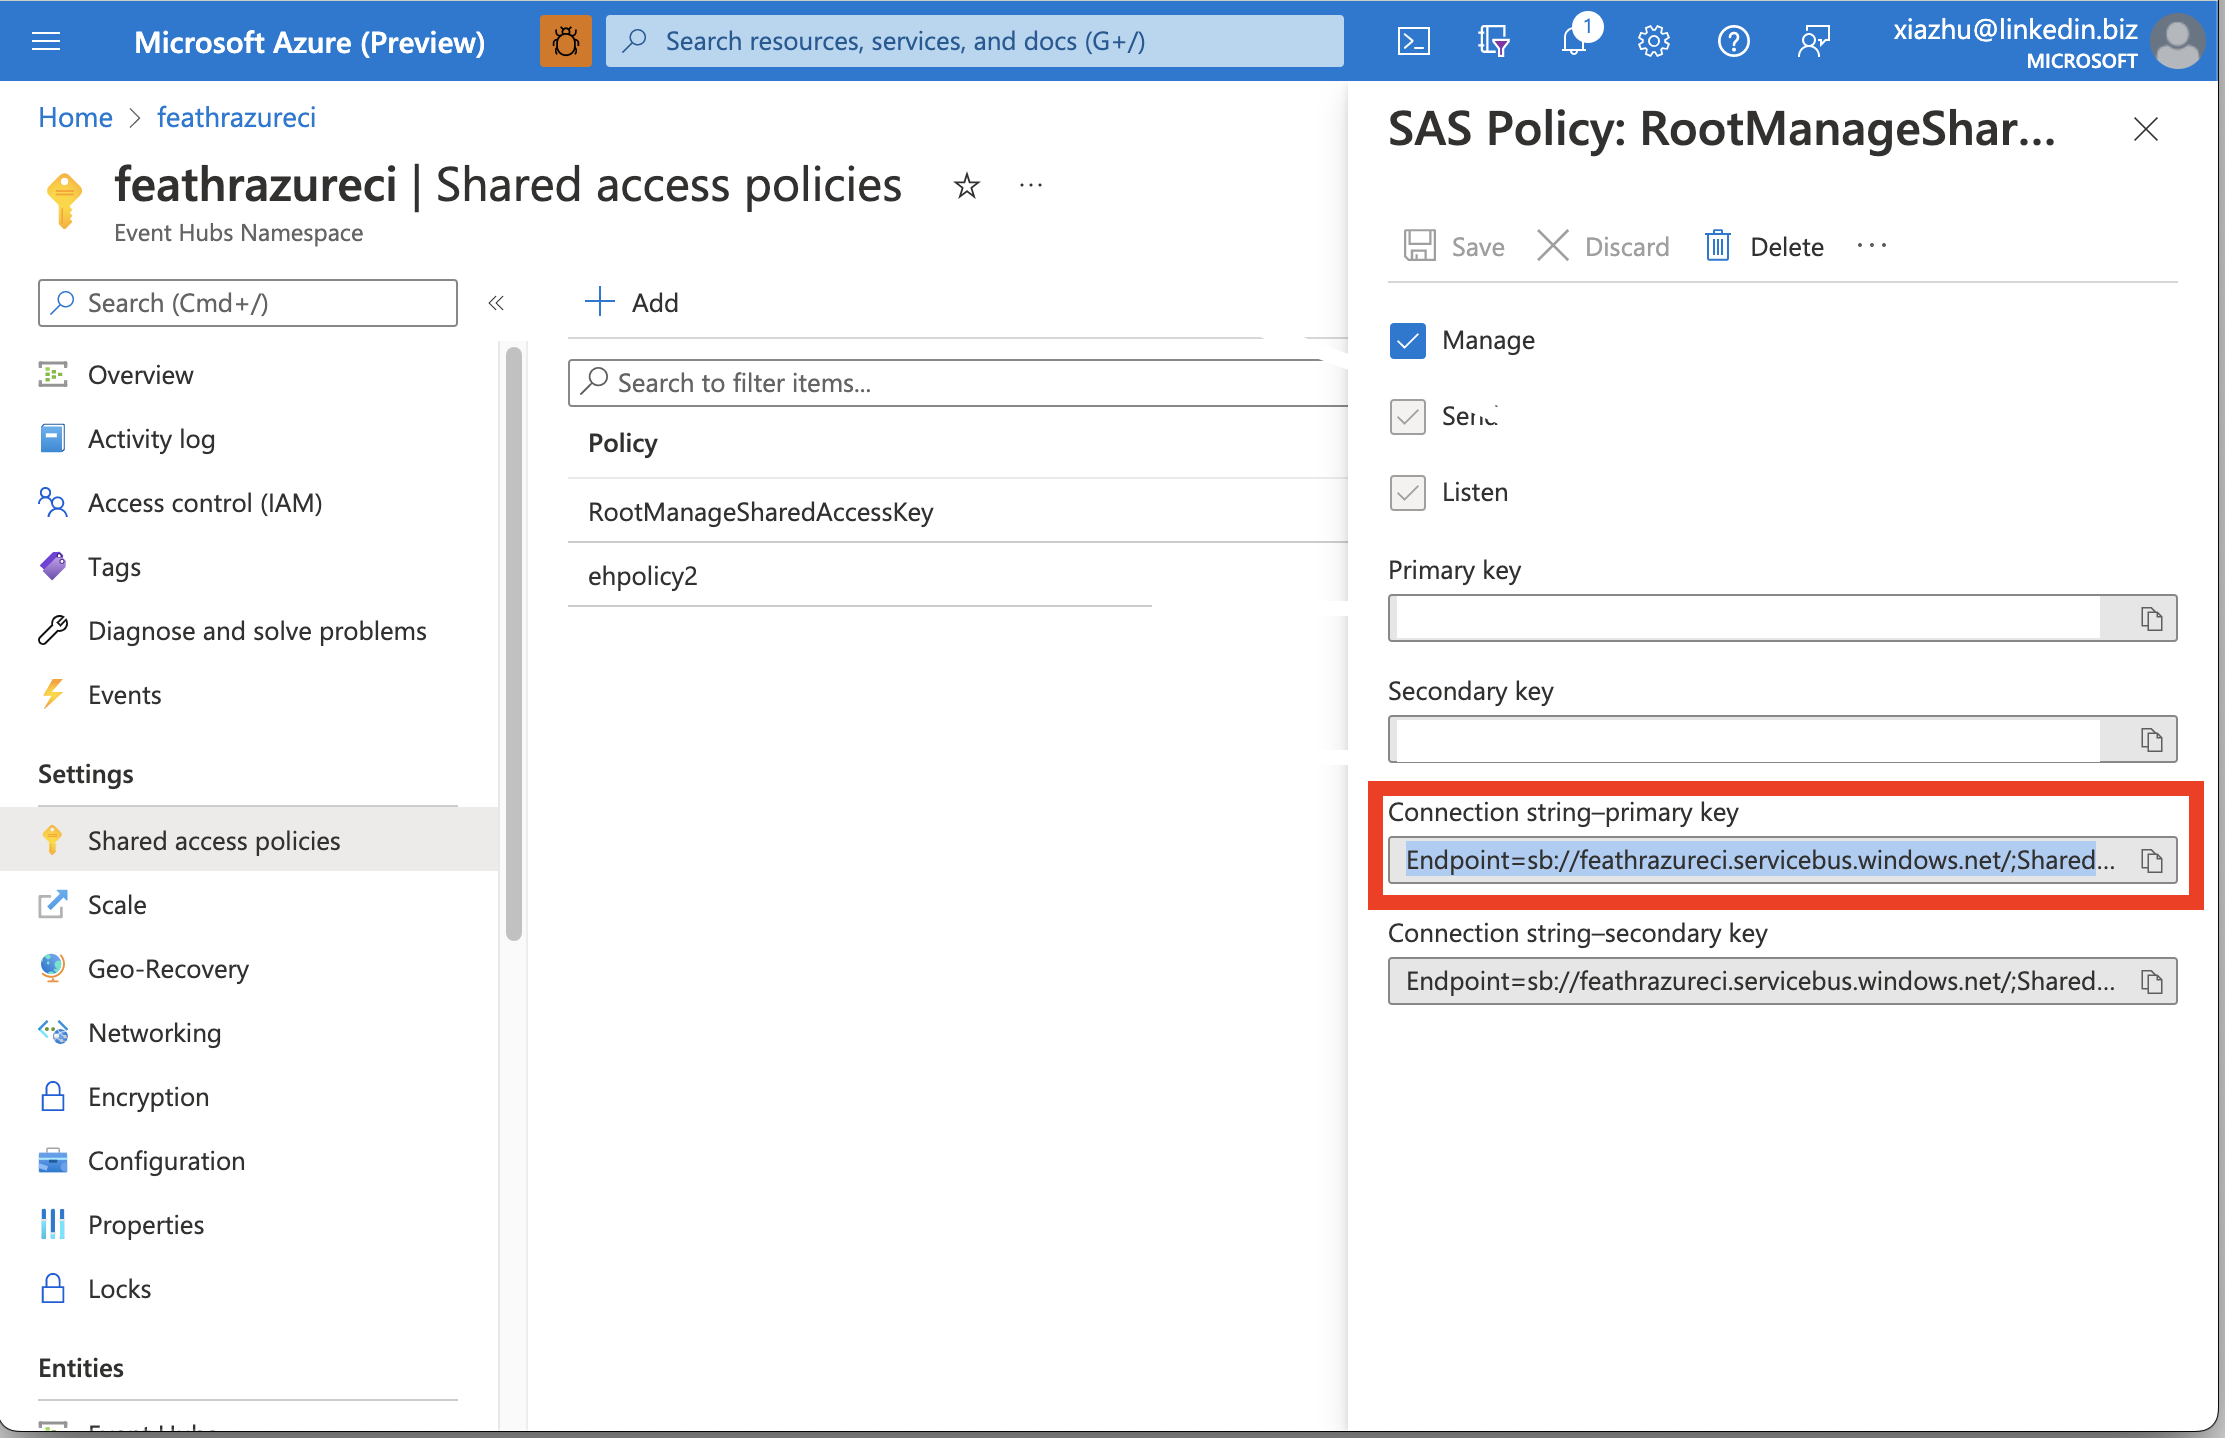
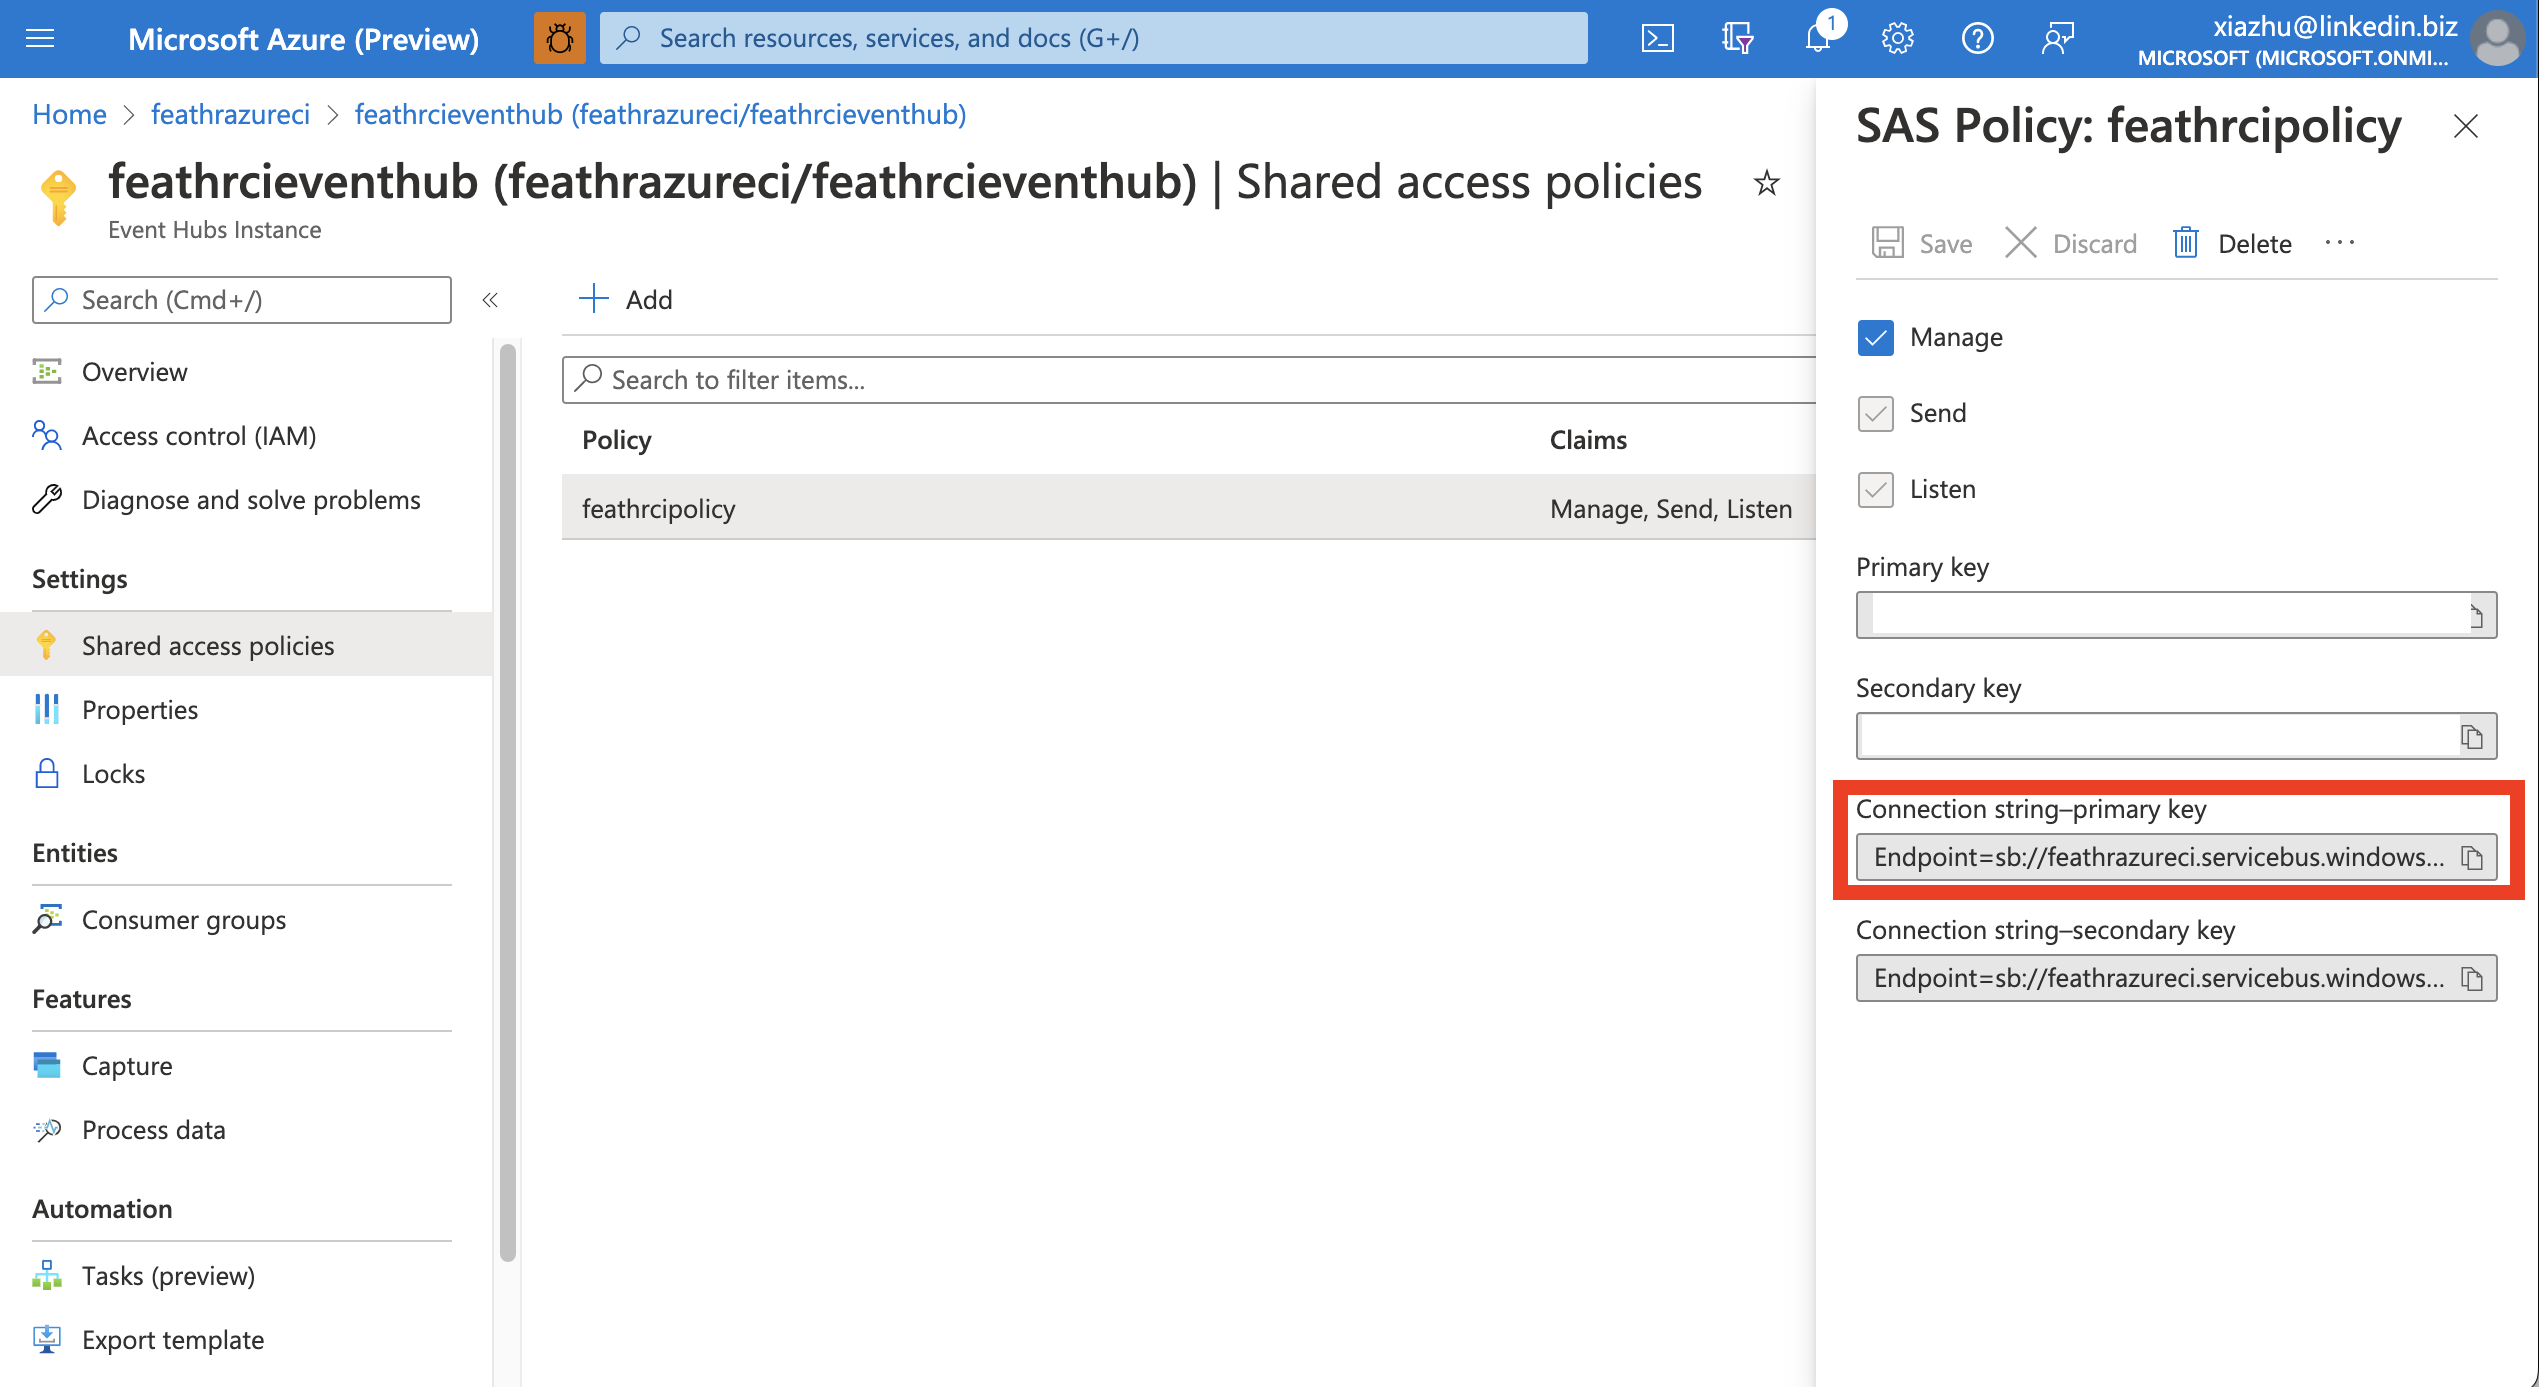
Add more docs for eventhub/kafka

diff --git a/feathr_project/test/test_fixture.py b/feathr_project/test/test_fixture.py
@@ -152,7 +152,7 @@ def kafka_test_setup(config_path: str):
                                                         key=driver_id),
                                                 Feature(name="f_modified_streaming_count2",
                                                         feature_type=INT32,
-                                                        transform="trips_today + 2",
+                                                        transform="trips_today + randn() * cos(trips_today)", # make sure the supported SQL functions are tested
                                                         key=driver_id)]
                                       )
     client.build_features(anchor_list=[kafkaAnchor])

diff --git a/docs/how-to-guides/streaming-source-ingestion.md b/docs/how-to-guides/streaming-source-ingestion.md
@@ -3,9 +3,14 @@ layout: default
 title: Streaming Source Ingestion
 parent: How-to Guides
 ---
+
 # Streaming feature ingestion
 
-1. Define Kafka streaming input source
+Feathr supports defining features from a stream source (for example Kafka) and sink the features into an online store (such as Redis). This is very useful if you need up-to-date features for online store, for example when user clicks on the website, that web log event is usually sent to Kafka, and data scientists might need some features immediately, such as the browser used in this particular event. The steps are as below:
+
+## Define Kafka streaming input source
+
+Currently only Avro format is supported, so users need to specify `AvroJsonSchema` as below:
 
 ```python
 # Define input data schema
@@ -30,7 +35,13 @@ stream_source = KafKaSource(name="kafkaStreamingSource",
                             )
 ```
 
-2. Define feature definition with the Kafka source
+## Define feature definition with the Kafka source
+
+You can then define features. They are mostly the same with the [regular feature definition](../concepts/feature-definition.md).
+
+Note that for the `transform` part, only row level transformation is allowed in streaming anchor at the moment, i.e. the transformations listed in [Spark SQL Built-in Functions](https://spark.apache.org/docs/latest/api/sql/) are supported. Other transformations support are in the roadmap. 
+
+For example, you can specify to do a row-level transformation like `trips_today + randn() * cos(trips_today)` for your input data.
 
 ```python
 driver_id = TypedKey(key_column="driver_id",
@@ -46,15 +57,15 @@ kafkaAnchor = FeatureAnchor(name="kafkaAnchor",
                                               key=driver_id),
                                       Feature(name="f_modified_streaming_count2",
                                               feature_type=INT32,
-                                              transform="trips_today + 2",
+                                              transform="trips_today + randn() * cos(trips_today)",
                                               key=driver_id)]
                             )
 
 ```
-Note that only Feathr ExpressionTransformation is allowed in streaming anchor at the moment.
-Other transformations support are in the roadmap.
 
-3. Start streaming job
+## Start streaming job
+
+You can then start a streaming job and stream all the features into online store, such as Redis:
 
 ```python
 redisSink = RedisSink(table_name="kafkaSampleDemoFeature", streaming=True, streamingTimeoutMs=10000)
@@ -64,15 +75,16 @@ settings = MaterializationSettings(name="kafkaSampleDemo",
                                    )
 client.materialize_features(settings) # Will streaming for 10 seconds since streamingTimeoutMs is 10000
 ```
-4. Fetch streaming feature values
+
+## Fetch streaming feature values
+
+And finally get the relevant features from online store:
 
 ```python
-
-    res = client.get_online_features('kafkaSampleDemoFeature', '1',
-                                     ['f_modified_streaming_count'])
-    # Get features for multiple feature keys
-    res = client.multi_get_online_features('kafkaSampleDemoFeature',
-                                    ['1', '2'],
-                                    ['f_modified_streaming_count'])
+res = client.get_online_features('kafkaSampleDemoFeature', '1',['f_modified_streaming_count'])
+# Get features for multiple feature keys
+res = client.multi_get_online_features('kafkaSampleDemoFeature', ['1', '2'], ['f_modified_streaming_count'])
 
 ```
+
+You can also refer to the [test case](../../feathr_project/test/test_azure_kafka_e2e.py) for more details.

diff --git a/docs/how-to-guides/feathr-configuration-and-env.md b/docs/how-to-guides/feathr-configuration-and-env.md
@@ -84,17 +84,21 @@ Feathr will get the configurations in the following order:
 
 ## KAFKA_SASL_JAAS_CONFIG
 
-Feathr uses Kafka behind the scene for streaming input, and Kafka uses the Java Authentication and Authorization Service (JAAS) for SASL configuration. You must provide JAAS configurations for all SASL authentication. 
+Feathr uses Kafka behind the scene for streaming input, and Kafka uses the Java Authentication and Authorization Service (JAAS) for SASL ([Simple Authentication and Security Layer](https://en.wikipedia.org/wiki/Simple_Authentication_and_Security_Layer)) configuration. You must provide JAAS configurations for all SASL authentication. 
 
-For cloud services such as Azure EventHub or AWS Managed Streaming for Apache Kafka (MSK), they usually use `ConnectionString` as user name, and the password will be the exact content of the connection string.
-
-For Azure EventHub, read [here](https://github.com/Azure/azure-event-hubs-for-kafka#updating-your-kafka-client-configuration) for how to get this string from the existing string in Azure Portal. The value will be something like:  `"org.apache.kafka.common.security.plain.PlainLoginModule required username=\"$ConnectionString\" password=\"Endpoint=sb://feathrazureci.servicebus.windows.net/;SharedAccessKeyName=feathrcipolicy;SharedAccessKey=aaabbbccc=\";"`, 
-
-Note that for those escape characters, they are usually needed, as those environment variable will be passed to different services (databricks/synapse) etc. later, and those different services might have different ways of dealing with those strings, so it is recommended to put those escape characters for the quotes.
+For cloud services such as Azure EventHub or AWS Managed Streaming for Apache Kafka (MSK), they usually use `ConnectionString` as user name, and the password will be the exact content of the connection string. Feathr will automatically fill that part in so you don't have to worry about it.
 
 In order to get the exact value of the `password` part (i.e. connection string), you can retrieve it from the Azure portal like below:
 
 ![EventHub Config](../images/eventhub_config.png)
+
+For Azure EventHub, read [here](https://github.com/Azure/azure-event-hubs-for-kafka#updating-your-kafka-client-configuration) for how to get this string from the existing string in Azure Portal. The value will be something like:  `Endpoint=sb://feathrazureci.servicebus.windows.net/;SharedAccessKeyName=feathrcipolicy;SharedAccessKey=aaaaaaaa=;EntityPath=feathrcieventhub`, and note that you don't need the `EntityPath=feathrcieventhub` part, as this represents the Kafka topic, which you will specify in the code in other places. 
+
+So finally the configuration in Python will be something like:
+
+```python
+os.environ['KAFKA_SASL_JAAS_CONFIG'] = 'Endpoint=sb://feathrazureci.servicebus.windows.net/;SharedAccessKeyName=feathrcipolicy;SharedAccessKey=aaaaaaaa='
+```
 
 ## SPARK_CONFIG__DATABRICKS__CONFIG_TEMPLATE
 

diff --git a/docs/concepts/feathr-capabilities.md b/docs/concepts/feathr-capabilities.md
@@ -124,7 +124,7 @@ user_item_similarity = DerivedFeature(name="user_item_similarity",
                                       transform="cosine_similarity(user_embedding, item_embedding)")
 ```
 
-## Define Streaming Features
+## Define Streaming Features with Streaming sources such as Kafka
 
 ```python
 # Define input data schema
